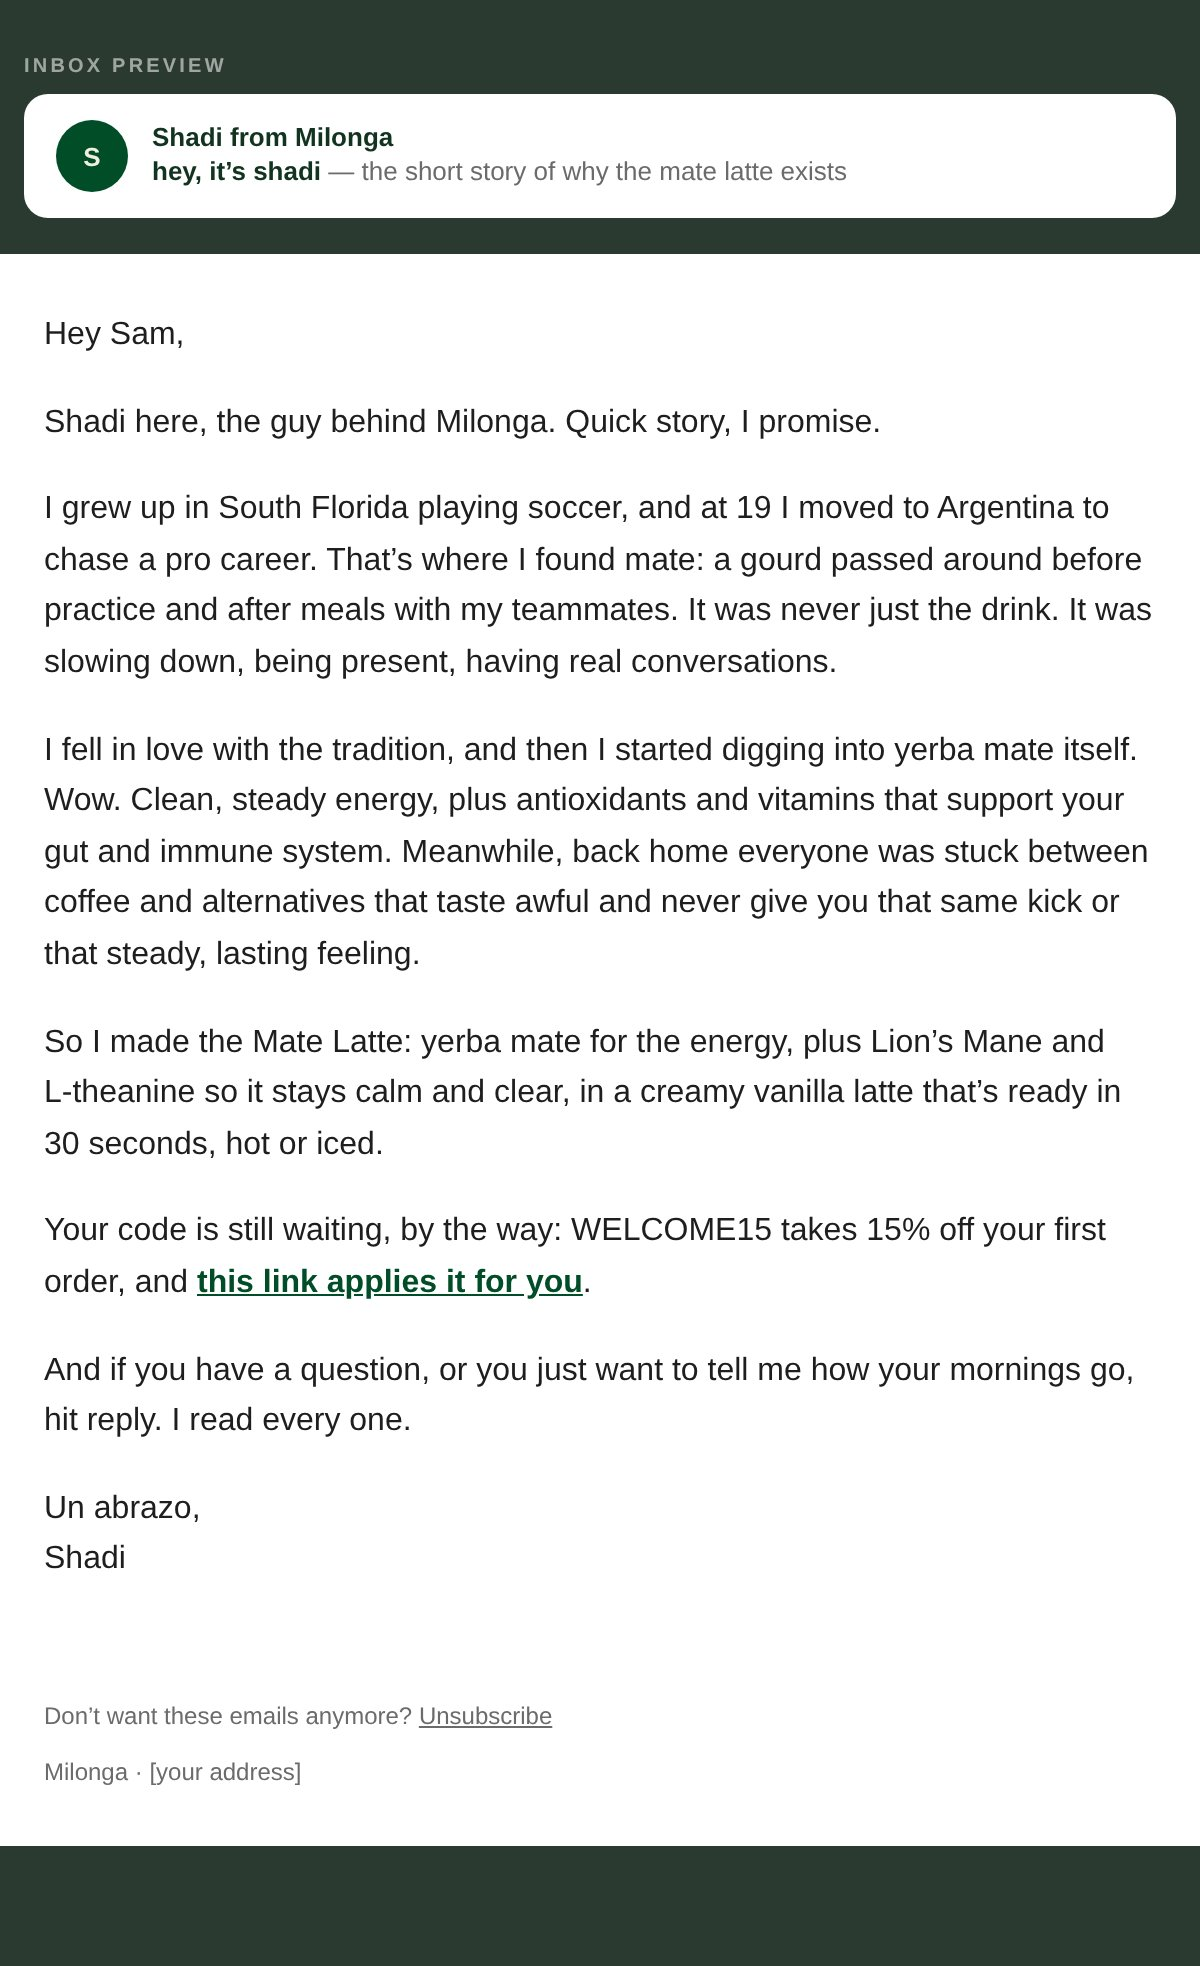
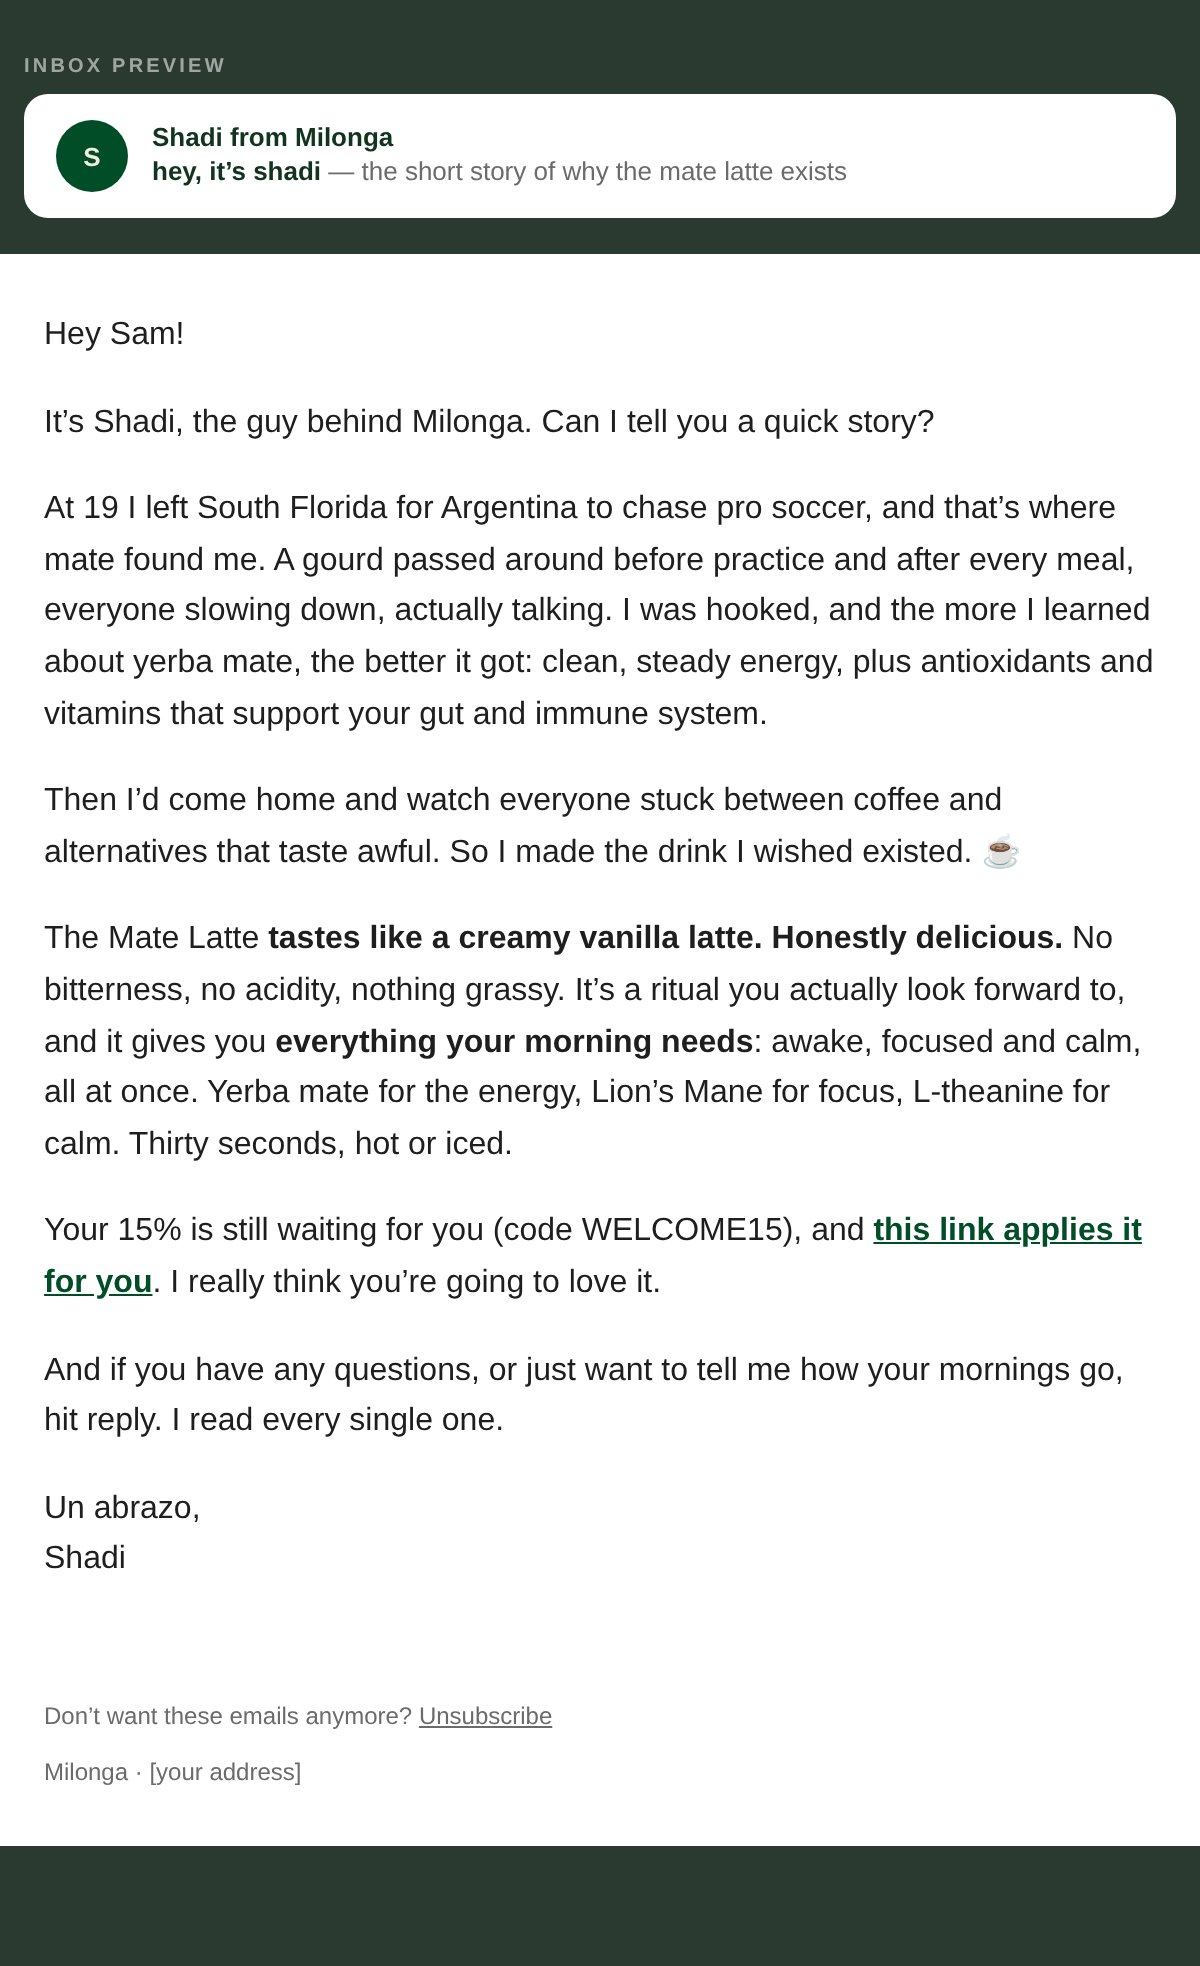
Welcome flow E2: warmer, shorter origin, the taste and the ritual up front
Claude-Session: https://claude.ai/code/session_01NhEtXPnfeCJfN73SqBkUZ5

diff --git a/email-ds/exports/klaviyo/welcome-e2/welcome-e2.html b/email-ds/exports/klaviyo/welcome-e2/welcome-e2.html
@@ -15,13 +15,13 @@
 <table role="presentation" class="wrap" width="600" cellpadding="0" cellspacing="0" border="0" style="width:600px;max-width:600px;">
 <tr><td class="pad" align="left" style="padding:36px 32px 28px;font-family:Helvetica, Arial, sans-serif;font-size:16px;line-height:1.6;color:#1E1E1E;">
 
-<p style="margin:0 0 18px;">Hey {{ first_name|default:'there' }},</p>
-<p style="margin:0 0 18px;">Shadi here, the guy behind Milonga. Quick story, I promise.</p>
-<p style="margin:0 0 18px;">I grew up in South Florida playing soccer, and at 19 I moved to Argentina to chase a pro career. That&rsquo;s where I found mate: a gourd passed around before practice and after meals with my teammates. It was never just the drink. It was slowing down, being present, having real conversations.</p>
-<p style="margin:0 0 18px;">I fell in love with the tradition, and then I started digging into yerba mate itself. Wow. Clean, steady energy, plus antioxidants and vitamins that support your gut and immune system. Meanwhile, back home everyone was stuck between coffee and alternatives that taste awful and never give you that same kick or that steady, lasting feeling.</p>
-<p style="margin:0 0 18px;">So I made the Mate Latte: yerba mate for the energy, plus Lion&rsquo;s Mane and <span style="white-space:nowrap;">L-theanine</span> so it stays calm and clear, in a creamy vanilla latte that&rsquo;s ready in 30 seconds, hot or iced.</p>
-<p style="margin:0 0 18px;">Your code is still waiting, by the way: WELCOME15 takes 15% off your first order, and <a href="https://milonga.life/discount/WELCOME15?redirect=%2Fproducts%2Fthe-original-mate-latte&amp;utm_source=klaviyo&amp;utm_medium=email&amp;utm_campaign=welcome_mystery_offer&amp;utm_content=e2_text_link" target="_blank" style="color:#004D27;font-weight:bold;text-decoration:underline;">this link applies it for you</a>.</p>
-<p style="margin:0 0 18px;">And if you have a question, or you just want to tell me how your mornings go, hit reply. I read every one.</p>
+<p style="margin:0 0 18px;">Hey {{ first_name|default:'there' }}!</p>
+<p style="margin:0 0 18px;">It&rsquo;s Shadi, the guy behind Milonga. Can I tell you a quick story?</p>
+<p style="margin:0 0 18px;">At 19 I left South Florida for Argentina to chase pro soccer, and that&rsquo;s where mate found me. A gourd passed around before practice and after every meal, everyone slowing down, actually talking. I was hooked, and the more I learned about yerba mate, the better it got: clean, steady energy, plus antioxidants and vitamins that support your gut and immune system.</p>
+<p style="margin:0 0 18px;">Then I&rsquo;d come home and watch everyone stuck between coffee and alternatives that taste awful. So I made the drink I wished existed. ☕</p>
+<p style="margin:0 0 18px;">The Mate Latte <strong>tastes like a creamy vanilla latte. Honestly delicious.</strong> No bitterness, no acidity, nothing grassy. It&rsquo;s a ritual you actually look forward to, and it gives you <strong>everything your morning needs</strong>: awake, focused and calm, all at once. Yerba mate for the energy, Lion&rsquo;s Mane for focus, <span style="white-space:nowrap;">L-theanine</span> for calm. Thirty seconds, hot or iced.</p>
+<p style="margin:0 0 18px;">Your 15% is still waiting for you (code WELCOME15), and <a href="https://milonga.life/discount/WELCOME15?redirect=%2Fproducts%2Fthe-original-mate-latte&amp;utm_source=klaviyo&amp;utm_medium=email&amp;utm_campaign=welcome_mystery_offer&amp;utm_content=e2_text_link" target="_blank" style="color:#004D27;font-weight:bold;text-decoration:underline;">this link applies it for you</a>. I really think you&rsquo;re going to love it.</p>
+<p style="margin:0 0 18px;">And if you have any questions, or just want to tell me how your mornings go, hit reply. I read every single one.</p>
 <p style="margin:0;">Un abrazo,<br>Shadi</p>
 
 </td></tr>

diff --git a/email-ds/refine/welcome-e2.html b/email-ds/refine/welcome-e2.html
@@ -27,13 +27,13 @@ body{margin:0;background:#2B3A31;padding:28px 0 60px}
 <table role="presentation" class="wrap" width="600" cellpadding="0" cellspacing="0" border="0" style="width:600px;max-width:600px;">
 <tr><td class="pad" align="left" style="padding:36px 32px 28px;font-family:Helvetica, Arial, sans-serif;font-size:16px;line-height:1.6;color:#1E1E1E;">
 
-<p style="margin:0 0 18px;">Hey Sam,</p>
-<p style="margin:0 0 18px;">Shadi here, the guy behind Milonga. Quick story, I promise.</p>
-<p style="margin:0 0 18px;">I grew up in South Florida playing soccer, and at 19 I moved to Argentina to chase a pro career. That&rsquo;s where I found mate: a gourd passed around before practice and after meals with my teammates. It was never just the drink. It was slowing down, being present, having real conversations.</p>
-<p style="margin:0 0 18px;">I fell in love with the tradition, and then I started digging into yerba mate itself. Wow. Clean, steady energy, plus antioxidants and vitamins that support your gut and immune system. Meanwhile, back home everyone was stuck between coffee and alternatives that taste awful and never give you that same kick or that steady, lasting feeling.</p>
-<p style="margin:0 0 18px;">So I made the Mate Latte: yerba mate for the energy, plus Lion&rsquo;s Mane and <span style="white-space:nowrap;">L-theanine</span> so it stays calm and clear, in a creamy vanilla latte that&rsquo;s ready in 30 seconds, hot or iced.</p>
-<p style="margin:0 0 18px;">Your code is still waiting, by the way: WELCOME15 takes 15% off your first order, and <a href="https://milonga.life/discount/WELCOME15?redirect=%2Fproducts%2Fthe-original-mate-latte&amp;utm_source=klaviyo&amp;utm_medium=email&amp;utm_campaign=welcome_mystery_offer&amp;utm_content=e2_text_link" target="_blank" style="color:#004D27;font-weight:bold;text-decoration:underline;">this link applies it for you</a>.</p>
-<p style="margin:0 0 18px;">And if you have a question, or you just want to tell me how your mornings go, hit reply. I read every one.</p>
+<p style="margin:0 0 18px;">Hey Sam!</p>
+<p style="margin:0 0 18px;">It&rsquo;s Shadi, the guy behind Milonga. Can I tell you a quick story?</p>
+<p style="margin:0 0 18px;">At 19 I left South Florida for Argentina to chase pro soccer, and that&rsquo;s where mate found me. A gourd passed around before practice and after every meal, everyone slowing down, actually talking. I was hooked, and the more I learned about yerba mate, the better it got: clean, steady energy, plus antioxidants and vitamins that support your gut and immune system.</p>
+<p style="margin:0 0 18px;">Then I&rsquo;d come home and watch everyone stuck between coffee and alternatives that taste awful. So I made the drink I wished existed. ☕</p>
+<p style="margin:0 0 18px;">The Mate Latte <strong>tastes like a creamy vanilla latte. Honestly delicious.</strong> No bitterness, no acidity, nothing grassy. It&rsquo;s a ritual you actually look forward to, and it gives you <strong>everything your morning needs</strong>: awake, focused and calm, all at once. Yerba mate for the energy, Lion&rsquo;s Mane for focus, <span style="white-space:nowrap;">L-theanine</span> for calm. Thirty seconds, hot or iced.</p>
+<p style="margin:0 0 18px;">Your 15% is still waiting for you (code WELCOME15), and <a href="https://milonga.life/discount/WELCOME15?redirect=%2Fproducts%2Fthe-original-mate-latte&amp;utm_source=klaviyo&amp;utm_medium=email&amp;utm_campaign=welcome_mystery_offer&amp;utm_content=e2_text_link" target="_blank" style="color:#004D27;font-weight:bold;text-decoration:underline;">this link applies it for you</a>. I really think you&rsquo;re going to love it.</p>
+<p style="margin:0 0 18px;">And if you have any questions, or just want to tell me how your mornings go, hit reply. I read every single one.</p>
 <p style="margin:0;">Un abrazo,<br>Shadi</p>
 
 </td></tr>
